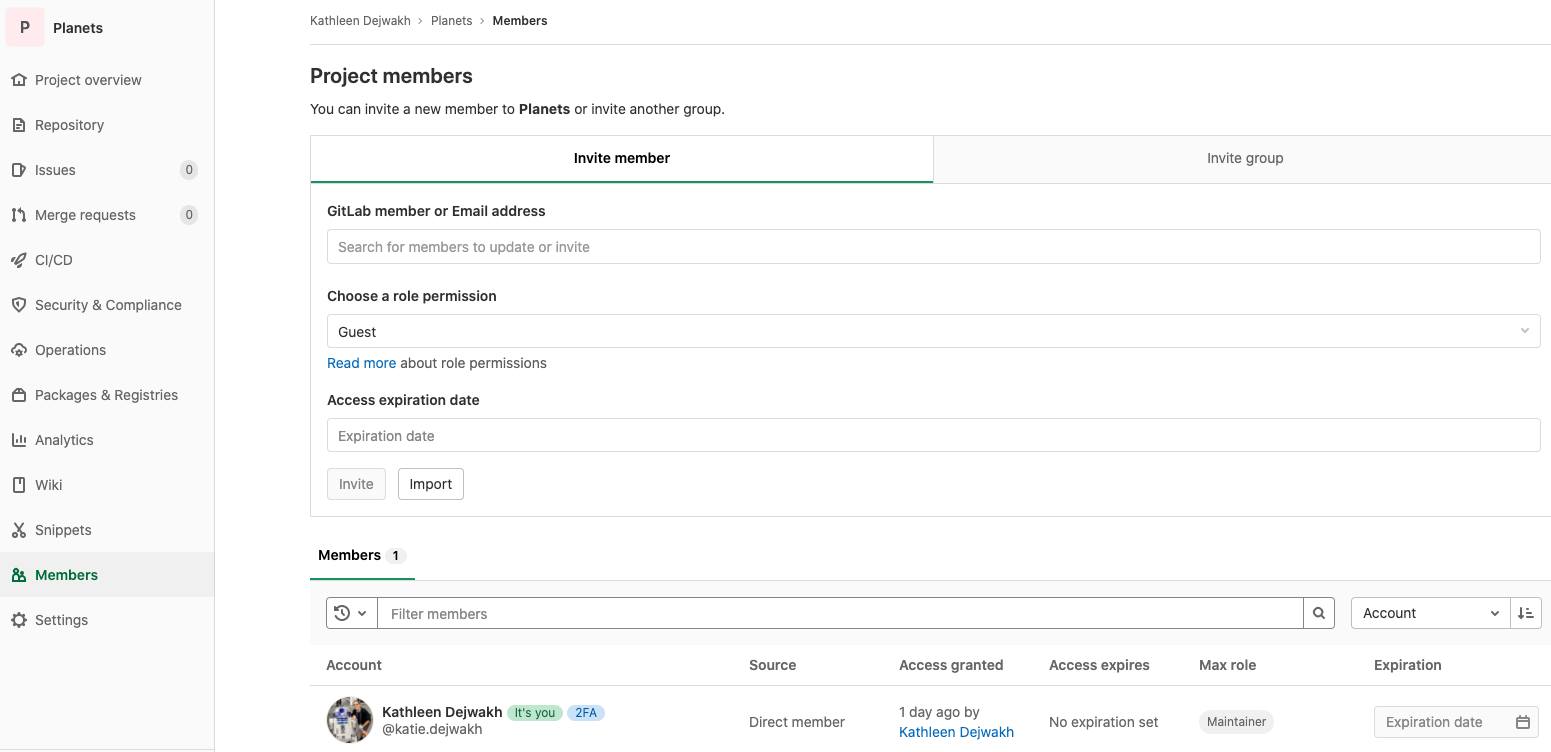
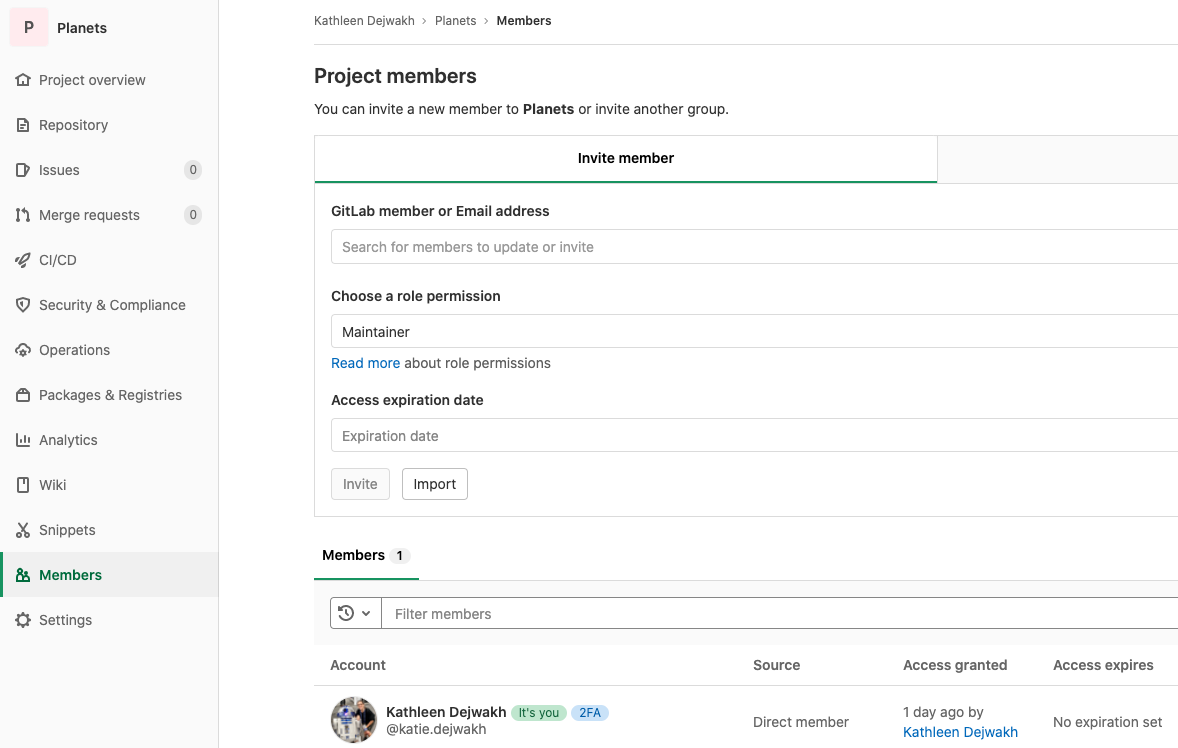
Updated Add Project Members image.

diff --git a/_episodes/08-collab.md b/_episodes/08-collab.md
@@ -27,7 +27,8 @@ play Owner and Collaborator.
 
 The Owner needs to give the Collaborator access. On GitLab, click the Members
 button on the left, and in the "GitLab member or Email address" field, enter your 
-partner's DEVELOP GitLab username or associated e-mail address.
+partner's DEVELOP GitLab username or associated e-mail address. Assign this 
+person the role of "Maintainer" so that they have full Push permissions.
 
 ![Adding Collaborators on GitHub](../fig/gitlab-fig/gitlabAddProjectMembers.png)
 
